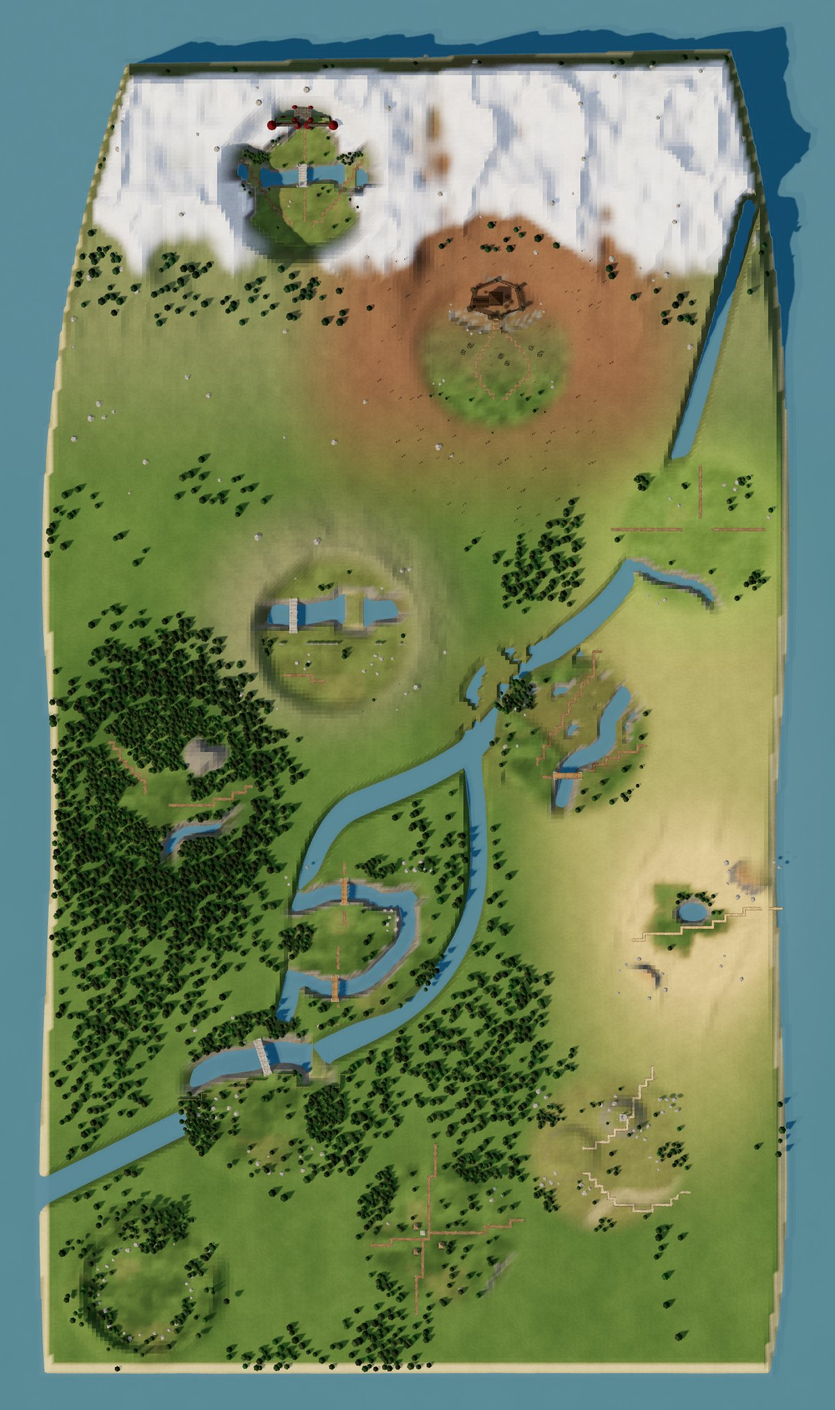
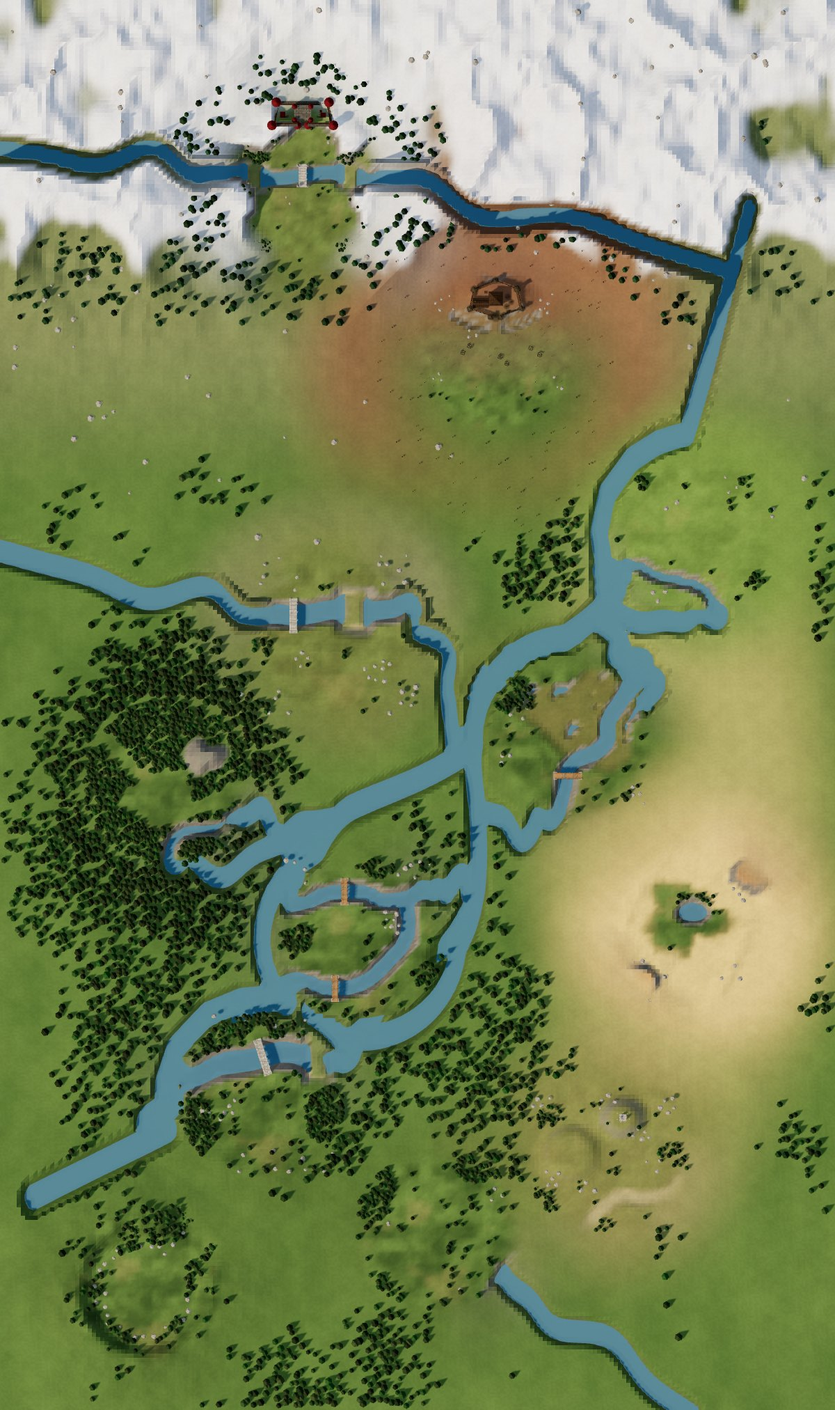
Overview: stages blend into the land (rims carried outward, streams join the big river), land to the edges, no roads or buildings in the stages, raised treasure-map crosses
Claude-Session: https://claude.ai/code/session_01AE8sRRsVdpH9ETfQvtppox

diff --git a/tools/render/overview-scene.js b/tools/render/overview-scene.js
@@ -15,11 +15,11 @@
   const RIV = CAMP_RIVER.map(R => { const pts = []; let p = R[0]; for (const s of R.slice(1)) { bez(p, ...s, 16, pts); p = [s[4], s[5]]; } return pts; });
   const P = CAMPAIGN.map(c => c.at);
   const rivD = (px, py) => Math.min(...RIV.map(r => polyDist(r, px, py)));
-  const coastD = (px, py) => inPoly(COAST, px, py) ? polyDist([...COAST, COAST[0]], px, py) : -1;
+  const coastD = () => 100;   // land right to the picture's edges (Jack: no empty background at the sides); the old coast is unused
   const stopD = (px, py) => Math.min(...P.map(([a, b]) => Math.hypot(a - px, (b - py) * 1.2)));
   const keepP = P[10], holdP = P[11];
   // ---------- every built stage, played once (startGame) and shrunk into a round patch at its stop: its own ground and colours, water,
-  // bridges, roads, trees, rocks and fixed scenery (walls, ruins, the market cross and hamlet, the bosses' forts); never the castle
+  // bridges, trees, rocks, Watchhill's ruin and the bosses' forts; no castle, buildings or roads (Jack)
   const PATCH = 21, STG = [];   // each stage's patch radius in metres: the closest stops are about 44 m apart
   // clone without userData: three copies it through JSON, and the game keeps object references there (a stack overflow)
   const cl = o => { const saved = []; o.traverse(n => { saved.push([n, n.userData]); n.userData = {}; }); const c = o.clone(); for (const [n, u] of saved) n.userData = u; return c; };
@@ -28,12 +28,10 @@
     MAP = c.map; startGame(); paused = true;
     const [cx, cz] = toW(...c.at), k = PATCH / (SIZE / 2);
     const wrap = new THREE.Group(); wrap.position.set(cx - SIZE / 2 * k, 0, cz - SIZE / 2 * k); wrap.scale.setScalar(k);
-    for (const B of buildings) if (B.type !== 'castle') wrap.add(cl(B.group));
     for (const b of bridges) if (b.g) wrap.add(cl(b.g));
     for (const r of rocks) if (r.mesh) wrap.add(cl(r.mesh));
     if (bossMesh) wrap.add(cl(bossMesh));
     if (ruinMesh) wrap.add(cl(ruinMesh));
-    wrap.add(cl(roadBase), cl(roadTop), cl(pathStones));
     STG.push({ cx, cz, k, V, SIZE, H: H.slice(0, V * V), C: tCol.slice(0, V * V * 3), trees: trees.map(t => ({ x: t.x, z: t.z, s: t.s, bare: t.bare })), wrap });
   }
   const stageAt = (x, z) => { for (const st of STG) { const d = Math.hypot(x - st.cx, z - st.cz); if (d < PATCH) return [st, d]; } return null; };
@@ -43,6 +41,41 @@
     const h = lerp(lerp(at(i, j), at(i + 1, j), fx), lerp(at(i, j + 1), at(i + 1, j + 1), fx), fz) * st.k, n = (Math.min(Math.round(sz), st.V - 1) * st.V + Math.min(Math.round(sx), st.V - 1)) * 3;
     return [h, st.C[n], st.C[n + 1], st.C[n + 2]];
   };
+  // each stage's rim: its height and colour all round, just inside the patch's edge; the land outside carries it on, so hills keep going
+  const NA = 90;
+  for (const st of STG) {
+    const raw = []; for (let a = 0; a < NA; a++) { const t = a / NA * Math.PI * 2; raw.push(stSample(st, st.cx + Math.cos(t) * PATCH * .9, st.cz + Math.sin(t) * PATCH * .9)); }
+    st.wetRim = raw.map(r => r[0] < -.15);
+    st.rim = raw.map((_, a) => { const acc = [0, 0, 0, 0]; let n = 0; for (let d = -7; d <= 7; d++) { const r = raw[(a + d + NA) % NA]; if (r[0] < .15) continue; r.forEach((v, q) => acc[q] += v); n++; } return n ? acc.map(v => v / n) : [.3, ...raw[a].slice(1)]; });   // dry ground only, averaged over ±28°
+  }
+  const rimAt = (st, x, z) => { let t = Math.atan2(z - st.cz, x - st.cx) / (Math.PI * 2) * NA; t = (t + NA) % NA; const a = Math.floor(t), b = (a + 1) % NA, f = t - a; return st.rim[a].map((v, n) => lerp(v, st.rim[b][n], f)); };
+  const nearStage = (x, z) => { let best = null, bd = 1e9; for (const st of STG) { const d = Math.hypot(x - st.cx, z - st.cz); if (d < bd) { bd = d; best = st; } } return [best, bd]; };
+  // where a stage's water reaches its rim, a stream runs on from there to the nearest bit of the big river (or the map's edge)
+  // the big river bends round the outside of every stage instead of vanishing into one; the stages' own water joins it by streams
+  for (const r of RIV) for (const p of r) { const [x, z] = toW(...p); for (const st of STG) { const d = Math.hypot(x - st.cx, z - st.cz), R0 = PATCH * 1.12; if (d < R0) { const f = R0 / Math.max(d, .01); const q = toP(st.cx + (x - st.cx) * f, st.cz + (z - st.cz) * f); p[0] = q[0]; p[1] = q[1]; } } }
+  const MAIN = RIV.map(r => r.map(([px, py]) => toW(px, py)));
+  const TRIB = [];
+  for (const st of STG) {
+    const wet = st.wetRim;
+    for (let a = 0; a < NA; a++) {
+      if (!wet[a] || wet[(a + NA - 1) % NA]) continue;
+      let e = a; while (wet[(e + 1) % NA] && e - a < NA) e++;
+      const t = (a + e) / 2 / NA * Math.PI * 2, ux = Math.cos(t), uz = Math.sin(t), ex = st.cx + ux * PATCH * .8, ez = st.cz + uz * PATCH * .8;
+      let tx = ex + ux * 400, tz = ez + uz * 400, td = 1e9;
+      for (const r of MAIN) for (const [x, z] of r) { const d = Math.hypot(x - ex, z - ez); if (d < td && (x - ex) * ux + (z - ez) * uz > -.3 * d && STG.every(o => Math.hypot(x - o.cx, z - o.cz) > PATCH * 1.35)) { td = d; tx = x; tz = z; } }
+      const edge = Math.min(ux > 0 ? (W - ex) / ux : ux < 0 ? -ex / ux : 1e9, uz > 0 ? (D - ez) / uz : uz < 0 ? -ez / uz : 1e9);
+      if (edge < td) { tx = ex + ux * (edge + 2); tz = ez + uz * (edge + 2); }
+      const mx = ex + ux * 10, mz = ez + uz * 10;
+      const pts = []; for (let i = 0; i <= 40; i++) {   // a quadratic curve with a gentle meander across it, none at either end
+        const f = i / 40, m = 1 - f, x = m * m * ex + 2 * m * f * mx + f * f * tx, z = m * m * ez + 2 * m * f * mz + f * f * tz;
+        const dx = 2 * m * (mx - ex) + 2 * f * (tx - mx), dz = 2 * m * (mz - ez) + 2 * f * (tz - mz), L = Math.hypot(dx, dz) || 1, w = Math.sin(f * Math.PI) * (2.5 * Math.sin(f * 9 + st.cx) + 1.5 * Math.sin(f * 17 + st.cz));
+        pts.push(toP(x - dz / L * w, z + dx / L * w)); }
+      TRIB.push(pts);
+    }
+  }
+  const rd = (x, z) => { const [px, py] = toP(x, z); return Math.min(ownWater(x, z) ? 1e9 : rivD(px, py), tribD(px, py) * 1.15) < 13 ? 0 : 2; };
+  const ownWater = (x, z) => STG.some(st => st.wetRim.some(Boolean) && Math.hypot(x - st.cx, z - st.cz) < PATCH * .95);
+  const tribD = (px, py) => TRIB.length ? Math.min(...TRIB.map(r => polyDist(r, px, py))) : 1e9;
   // ---------- ground: heights and colours by land
   const NX = 201, NZ = Math.round(D) + 1, Hh = new Float32Array(NX * NZ), Cc = new Float32Array(NX * NZ * 3);
   const col = new THREE.Color(), tmp = new THREE.Color();
@@ -61,7 +94,7 @@
     if (wM > .4 && fbm(px * .07 + 3, py * .07 + 8) > .47) h = lerp(h, -.6, sstep(.47, .53, fbm(px * .07 + 3, py * .07 + 8)) * sstep(.4, .7, wM));   // marsh pools
     h = lerp(-.4, h, sstep(0, 14, cd));                                      // down to the beach
     // each stop's ground made level for its little town
-    const rd = rivD(px, py); h = lerp(-1.2, h, sstep(5, 13, rd));
+    const [wx, wz] = toW(px, py), rd = Math.min(ownWater(wx, wz) ? 1e9 : rivD(px, py), tribD(px, py) * 1.15); h = lerp(-1.2, h, sstep(5, 13, rd));
     return h;
   };
   for (let j = 0; j < NZ; j++) for (let i = 0; i < NX; i++) {
@@ -76,6 +109,12 @@
     if (h > 12) col.lerp(SNOW, sstep(12, 15.5, h) * .9);
     tmp.copy(col);
     const sp = stageAt(i, j);
+    // round each stage the land takes on its rim's height and colour, fading back to the overview's own over another patch's width
+    { let sw = 0, wmax = 0; const acc = [0, 0, 0, 0];
+      for (const st of STG) { const d = Math.hypot(i - st.cx, j - st.cz); if (d > PATCH * 2.2) continue; const w = 1 - sstep(PATCH * .85, PATCH * 2.2, d); rimAt(st, i, j).forEach((v, q) => acc[q] += v * w); sw += w; wmax = Math.max(wmax, w); }
+      if (sw > 0) { const [rh, rr, rg, rb] = acc.map(v => v / sw), wet = rd(i, j) < 1, wc = wmax * wmax;
+        if (!wet) Hh[k] = lerp(Hh[k], Math.max(rh, .3) * (.85 + .3 * fbm(i * .15, j * .15)), wmax);
+        tmp.r = lerp(tmp.r, rr, wc); tmp.g = lerp(tmp.g, rg, wc); tmp.b = lerp(tmp.b, rb, wc); } }
     if (sp) { const [st, d] = sp, w = 1 - sstep(PATCH * .72, PATCH, d), [sh, r, gg, b] = stSample(st, i, j); Hh[k] = lerp(Hh[k], sh, w); tmp.r = lerp(tmp.r, r, w); tmp.g = lerp(tmp.g, gg, w); tmp.b = lerp(tmp.b, b, w); }
     Cc.set([tmp.r, tmp.g, tmp.b], k * 3);
   }
@@ -97,7 +136,7 @@
   const T = [];
   for (let z = 1; z < D - 1; z += 1.25) for (let x = 1; x < W - 1; x += 1.25) {
     const jx = x + (hash(x * 3.1, z * 1.7) - .5) * 1.1, jz = z + (hash(z * 2.3, x * .9) - .5) * 1.1, [px, py] = toP(jx, jz), h = hAtO(jx, jz);
-    if (h < .4 || coastD(px, py) < 6 || rivD(px, py) < 12 || stageAt(jx, jz)) continue;
+    if (h < .4 || rivD(px, py) < 12 || tribD(px, py) < 10 || stageAt(jx, jz)) continue;
     const wF = landW('woods', px, py, .45, 1.25), wD = landW('desert', px, py, .3, 1.2), wS = landW('dry', px, py, .45, 1.1), wP = landW('plains', px, py, .4, 1.1), wH = landW('high', px, py, .4, 1.15), wM = landW('marsh', px, py, .3, 1.1);
     const north = sstep(330, 230, py), mount = sstep(250, 130, py);
     const meadow = (fbm(px * .011, py * .011) - .5) * 1.6 + .1;

diff --git a/index.html b/index.html
@@ -6723,6 +6723,13 @@ function campaignSVG() {
   const onLand = (x, y) => x > 55 + (y > 420 ? 0 : (420 - y) * .12) && x < 745 && y > 60 && y < 868;
   let road = `M${P[0][0]} ${P[0][1]}`;
   for (let i = 1; i < P.length; i++) { const [x0, y0] = P[i - 1], [x1, y1] = P[i]; road += ` Q${(x0 + x1) / 2 + (i % 2 ? 40 : -40)} ${(y0 + y1) / 2 + (i % 2 ? -25 : 25)} ${x1} ${y1}`; }
+  // a painted treasure-map cross, raised: a soft shadow cast down-right, a dark rim, the red strokes shaded light to dark, a highlight
+  // along their upper edges (two slightly bowed brush strokes, thicker in the middle)
+  const XS = ['M-16 -14 Q-1 -4 16 15', 'M15 -16 Q3 -1 -15 15'];
+  const XMARK = `<g transform="translate(3.5 4.5)" filter="url(#xShade)">${XS.map(d => `<path d="${d}" stroke="#000" stroke-opacity=".55" stroke-width="13" stroke-linecap="round" fill="none"/>`).join('')}</g>` +
+    XS.map(d => `<path d="${d}" stroke="#4a0b07" stroke-width="13" stroke-linecap="round" fill="none"/>`).join('') +
+    XS.map(d => `<path d="${d}" stroke="url(#xRed)" stroke-width="9" stroke-linecap="round" fill="none"/>`).join('') +
+    XS.map(d => `<path d="${d}" transform="translate(-1.4 -1.8)" stroke="#ffb49e" stroke-opacity=".75" stroke-width="2.4" stroke-linecap="round" fill="none"/>`).join('');
   // the ground is one 3D landscape rendered from the game's own terrain, trees, rocks and buildings, seen straight down (maps/overview.jpg,
   // tools/render/overview.js); the road, the rings round each stop's little town and the names are drawn over it
   const marks = CAMPAIGN.map((c, i) => { const [x, y] = c.at, col = c.boss ? '#e2715b' : '#e3b341', R = 46;
@@ -6730,12 +6737,12 @@ function campaignSVG() {
       (c.boss ? `<path d="M-6 -4 L6 7 M6 -4 L-6 7" stroke="#f3d5c8" stroke-width="2.6" stroke-linecap="round"/>` : `<text y="6" text-anchor="middle" font-size="17" font-family="Georgia,serif" fill="#f2e6c4">${i + 1}</text>`) + `</g>`;
     // a red cross on the spot (Jack), over the stage's own ground; an invisible disc keeps the tap target big
     return `<g class="mk" data-i="${i}" transform="translate(${x} ${y * CAMP_CY})"><circle r="${R}" fill="#000" fill-opacity=".001"/><circle class="ring" r="${R}" fill="none" stroke="#fff" stroke-width="0"/>` +
-      `<path d="M-13 -13 L13 13 M13 -13 L-13 13" stroke="#1a1a14" stroke-width="11" stroke-linecap="round"/><path d="M-13 -13 L13 13 M13 -13 L-13 13" stroke="#d8342a" stroke-width="6.5" stroke-linecap="round"/>${badge}` +
+      XMARK + badge +
       `<text y="${R + 28}" text-anchor="middle" font-size="25" font-family="Georgia,serif" fill="#f2e6c4" stroke="#1a1a14" stroke-width="5" paint-order="stroke">${c.name}</text></g>`; }).join('');
   return `<svg viewBox="0 0 800 ${900 * CAMP_CY}" xmlns="http://www.w3.org/2000/svg">
-    <rect width="800" height="${900 * CAMP_CY}" fill="#3e6e86"/>
+    <defs><linearGradient id="xRed" x1="0" y1="0" x2="1" y2="1"><stop offset="0" stop-color="#f05a3f"/><stop offset=".55" stop-color="#c8261b"/><stop offset="1" stop-color="#7e130c"/></linearGradient>
+      <filter id="xShade" x="-50%" y="-50%" width="200%" height="200%"><feGaussianBlur stdDeviation="2.2"/></filter></defs>
     <image href="maps/overview.jpg" x="0" y="0" width="800" height="${900 * CAMP_CY}" preserveAspectRatio="none"/>
-    <g transform="scale(1 ${CAMP_CY})"><path d="${road}" fill="none" stroke="#f0dfb0" stroke-width="4.5" stroke-dasharray="10 9" stroke-linecap="round" opacity=".85"/></g>
     ${marks}
   </svg>`;
 }

diff --git a/CLAUDE.md b/CLAUDE.md
@@ -95,7 +95,7 @@ The whole game is currently one self-contained file: `index.html` (~165 KB, thre
 ## Gameplay summary
 - 28×28 grid of 2 m cells. Start: castle prebuilt in the middle, 3 villagers, gold 40, wood 45, stone 0, food 20.
 - **Day/night**: 5 waves on Meadow and River isle (`WAVES_STD`; `WAVES`, `NIGHTS`, `DAYLEN`, `SPAWN_GAP` are set per map by `mapRules()`; Mountain pass has 2). Day 1 lasts 300 s, days 2–5 last 150 s (`DAYLEN`); the last `DUSK` 40 s fade slowly to night (light and dusk colours in `updateLight`), with a "Dusk · Night N soon" banner and log line as it starts. Nothing is earned at night: no payouts (the `econT` ring waits for dawn) and a load carried in after dark is lost (`deliver`). Night ends when all enemies are dead. Summary screen at the end, with a star rating (`endGame`): 0 if the castle fell, 1 for surviving, 2 with some of the goals, 3 with all of them; goals: no buildings lost, no soldiers lost, castle above half health (listed with ticks, `#sumGoals`). The best per map is kept in `localStorage['mtd-stars']` (`STARS`, `starsHTML`, `starTotal`) and shown on the map cards (`markMapStars`); the total shows on the campaign screen.
-- **Campaign overview** (title screen → Campaign, `#campaign`): a sketch: one hand-drawn SVG map (`campaignSVG`: sea, meadows in the south, woods, hills, snowy mountains and the raiders' reddish north; the river (Jack's line) comes down from the north-east mountains past Horsefields and Meadowmere, splits round Riverbend (two branches, Riverbend between them) and runs out at the west edge above Greenvale; lands where a resource is scarce, so the stop's new building is the answer, all blending into each other (Jack wants it natural, never a sudden patch): each land is a soft ellipse in `CAMP_LAND` (centre, radii, colour) drawn blurred (`campSoft`) and clipped to the coast, and `landW(kind, x, y)` gives how deep a spot is in it; tree density is worked out from those weights everywhere (a 13 px grid with jitter: the deep woods dense and dark, meadow copses from value noise, thinning into dry grass, none on desert or plains, few on highlands and marsh, none in the bare north), and ground detail follows them too (dunes, dry shrubs, highland rocks, marsh pools and reeds). The lands: deep woods round Ironcrag (7, no stone: the mine), rocky highlands round Siegeford (8, little wood: catapults' stone is at hand), marsh along the river at Meadowmere (9, poor fields: the farmhouse), and in the east dry grass round a desert at Dunewell (5, few trees: forester and well) running north into the open plains of Horsefields (10, stables) and south to the dry hills of Watchhill (4). Stonebridge sits on the river. Markers were moved to sit in their lands; each stop's `land` line shows under its name in the info) with a dashed road through twelve numbered markers, the last two red boss markers (`CAMPAIGN`: name, position in the 800 × 900 view, `land` line, the buildings each adds; river in `CAMP_RIVER`, cubic segments, also sampled to keep trees off the water); the overview is drawn half again as tall as its 800 × 900 plan (`CAMP_CY` 1.5: the ground, lands, river and road are stretched in one group; trees, rocks, peaks and markers keep their shapes and are just moved down, `T(y, el)`), so it fills a phone's height, with only "Tap a stage" under it. **The overview's ground is now one 3D landscape** (Jack: rebuild it in 3D top-down from the stages; thumbnails of each stage were tried and dropped): `maps/overview.jpg` (1200 × 2025), rendered by `node tools/render/overview.js [--three …]` from `tools/render/overview-scene.js` (evaluated inside the game through `G`): a 200 × 337.5 m world (the plan × .25 across, × .375 down) straight down with an orthographic camera and the game's sun; heights and colours by the same lands (`CAMP_LAND`, `landW`): dark woods, golden dry grass, sand with dune ridges, fresh plains, grey-green rocky highlands, olive marsh with pools, the raiders' red land round Raider Keep, snowy mountains across the far north; the coast (`LAND`'s curves) to a beach and the sea, the river carved from `CAMP_RIVER`, the game's own trees and rocks between the stops; and **at every stop the stage itself** (Jack: the overview must match the stage maps, e.g. Siegeford's river): each built stage is started once (`startGame`) and shrunk into a round patch of radius `PATCH` 21 m at its stop (scale 21 / (SIZE / 2)): its heights (scaled the same) and vertex colours blended in over the patch's outer quarter, its water (below the sea plane), bridges, roads and path stones, trees, rocks and fixed scenery (pre-built walls, the hamlet and market cross, Watchhill's ruin, the bosses' forts), never the castle (cloned without `userData`: three copies it through JSON and the game's references there overflow the stack). Re-run after changing `CAMPAIGN` positions, `CAMP_LAND` or `CAMP_RIVER`. `campaignSVG` now only draws the picture, the dashed road, a red cross on each stop (Jack; the selected stop gets a dashed white ring) with its number (crossed swords for bosses) on a badge, and the names (the old hand-drawn trees, dunes, reeds and peaks are gone). Tapping a stage opens its **stage preview** (`#stagePrev`, `openStage`): the stage's picture (`STAGE_PIC`: the real stage seen straight down, `maps/vale.jpg` / `maps/bridge.jpg` / `maps/cross.jpg` / `maps/watch.jpg` / `maps/dune.jpg` / `maps/bend.jpg` / `maps/crag.jpg` / `maps/ford.jpg` / `maps/mere.jpg` / `maps/plains.jpg` / `maps/keep.jpg` / `maps/hold.jpg` from `node tools/render/maps.js vale bridge cross watch dune bend crag ford mere plains keep hold` (the 80 m boss maps framed at `VIEW` 40, 2, 40, dist 92), drawn at 1080 px (`PX`) so they stay sharp on a phone (Jack found 400 px blurry and wanted top-down, not angled), framed like the map cards (`VIEW` 28, 0, 28, dist 64: no sky past the map's edges); a stage with only a sketch can use it with `tag: 'Sketch'`; others "Soon"), "Stage N · Name", its sub and land line, the buildings it brings in (icons and names), stars, Back and (playable stages, `map`) Play. Landscape puts the picture beside the details. Restart / Play again on a stage go back to the campaign with its preview open (`showStart`, `openCampaign(stop)`).
+- **Campaign overview** (title screen → Campaign, `#campaign`): a sketch: one hand-drawn SVG map (`campaignSVG`: sea, meadows in the south, woods, hills, snowy mountains and the raiders' reddish north; the river (Jack's line) comes down from the north-east mountains past Horsefields and Meadowmere, splits round Riverbend (two branches, Riverbend between them) and runs out at the west edge above Greenvale; lands where a resource is scarce, so the stop's new building is the answer, all blending into each other (Jack wants it natural, never a sudden patch): each land is a soft ellipse in `CAMP_LAND` (centre, radii, colour) drawn blurred (`campSoft`) and clipped to the coast, and `landW(kind, x, y)` gives how deep a spot is in it; tree density is worked out from those weights everywhere (a 13 px grid with jitter: the deep woods dense and dark, meadow copses from value noise, thinning into dry grass, none on desert or plains, few on highlands and marsh, none in the bare north), and ground detail follows them too (dunes, dry shrubs, highland rocks, marsh pools and reeds). The lands: deep woods round Ironcrag (7, no stone: the mine), rocky highlands round Siegeford (8, little wood: catapults' stone is at hand), marsh along the river at Meadowmere (9, poor fields: the farmhouse), and in the east dry grass round a desert at Dunewell (5, few trees: forester and well) running north into the open plains of Horsefields (10, stables) and south to the dry hills of Watchhill (4). Stonebridge sits on the river. Markers were moved to sit in their lands; each stop's `land` line shows under its name in the info) with a dashed road through twelve numbered markers, the last two red boss markers (`CAMPAIGN`: name, position in the 800 × 900 view, `land` line, the buildings each adds; river in `CAMP_RIVER`, cubic segments, also sampled to keep trees off the water); the overview is drawn half again as tall as its 800 × 900 plan (`CAMP_CY` 1.5: the ground, lands, river and road are stretched in one group; trees, rocks, peaks and markers keep their shapes and are just moved down, `T(y, el)`), so it fills a phone's height, with only "Tap a stage" under it. **The overview's ground is now one 3D landscape** (Jack: rebuild it in 3D top-down from the stages; thumbnails of each stage were tried and dropped): `maps/overview.jpg` (1200 × 2025), rendered by `node tools/render/overview.js [--three …]` from `tools/render/overview-scene.js` (evaluated inside the game through `G`): a 200 × 337.5 m world (the plan × .25 across, × .375 down) straight down with an orthographic camera and the game's sun; heights and colours by the same lands (`CAMP_LAND`, `landW`): dark woods, golden dry grass, sand with dune ridges, fresh plains, grey-green rocky highlands, olive marsh with pools, the raiders' red land round Raider Keep, snowy mountains across the far north; the coast (`LAND`'s curves) to a beach and the sea, the river carved from `CAMP_RIVER`, the game's own trees and rocks between the stops; and **at every stop the stage itself** (Jack: the overview must match the stage maps, e.g. Siegeford's river): each built stage is started once (`startGame`) and shrunk into a round patch of radius `PATCH` 21 m at its stop (scale 21 / (SIZE / 2)): its heights (scaled the same) and vertex colours blended in over the patch's outer quarter, its water (below the sea plane), bridges, trees, rocks, Watchhill's ruin and the bosses' forts (no castle, other buildings or roads: Jack). **Blending** (Jack: stages must sit naturally in the overview): each stage's rim (its height and colour sampled all round just inside the patch, averaged over ±28° and over dry ground only) carries on outward and fades back into the overview's own land over another patch's width, every nearby stage weighted together (no seams); where a stage's water reaches its rim a meandering stream (`TRIB`) runs on to the nearest bit of the big river outside every patch, or to the map's edge; the big river bends round the outside of every patch (its points pushed out to 1.12 × `PATCH`) and is never carved inside a stage that has its own water. The land runs right to the picture's edges (no sea or coast: Jack didn't want empty background at the sides) (cloned without `userData`: three copies it through JSON and the game's references there overflow the stack). Re-run after changing `CAMPAIGN` positions, `CAMP_LAND` or `CAMP_RIVER`. `campaignSVG` now only draws the picture, a raised red cross on each stop (`XMARK`: a painted treasure-map X, two bowed brush strokes with a soft shadow, a dark rim, a light-to-dark red gradient and a highlight; Jack: "3D, a bit pirate"; no road any more; the selected stop gets a dashed white ring) with its number (crossed swords for bosses) on a badge, and the names (the old hand-drawn trees, dunes, reeds and peaks are gone). Tapping a stage opens its **stage preview** (`#stagePrev`, `openStage`): the stage's picture (`STAGE_PIC`: the real stage seen straight down, `maps/vale.jpg` / `maps/bridge.jpg` / `maps/cross.jpg` / `maps/watch.jpg` / `maps/dune.jpg` / `maps/bend.jpg` / `maps/crag.jpg` / `maps/ford.jpg` / `maps/mere.jpg` / `maps/plains.jpg` / `maps/keep.jpg` / `maps/hold.jpg` from `node tools/render/maps.js vale bridge cross watch dune bend crag ford mere plains keep hold` (the 80 m boss maps framed at `VIEW` 40, 2, 40, dist 92), drawn at 1080 px (`PX`) so they stay sharp on a phone (Jack found 400 px blurry and wanted top-down, not angled), framed like the map cards (`VIEW` 28, 0, 28, dist 64: no sky past the map's edges); a stage with only a sketch can use it with `tag: 'Sketch'`; others "Soon"), "Stage N · Name", its sub and land line, the buildings it brings in (icons and names), stars, Back and (playable stages, `map`) Play. Landscape puts the picture beside the details. Restart / Play again on a stage go back to the campaign with its preview open (`showStart`, `openCampaign(stop)`).
 - **Waves** (`WAVES`): each wave lists how many of each kind come by tier, `{ kind: [tier 1, tier 2, tier 3] }` (`WAVES_STD`): spearmen are the basic raider and come first; 1 = 7 spears + 2 archers; 2 adds swordsmen and a ram; 3 crossbows, horse spears and a ballista; 4 horse swords, a catapult, tiers climb; 5 mostly tier 2–3 with a great ballista, a trebuchet and two rams. `startNight` builds the queue (`[kind, spawn point, tier]`): spearmen first, the other foot and horse mixed in at random, siege engines at the tail. The captain is gone.
 - **Raider kinds** (`ENEMY`; tier multipliers `RAIDER_T` hp ×1/1.6/2.3, dmg ×1/1.3/1.65; gallery names `RAIDER_NAME`): spear, sword (round shield; tier 3 a red one), archer (bow), xbow (crossbow, `xbowPose`, short bolts, range 5.5, a shot every 1.2 s (archers 1.8 s; Jack wants crossbows the faster shooters) for 7 damage (archers 6)), lancer (spear on a horse), rider (sword and shield on a horse), and three wheeled siege engines (`engine: true`, built by `makeEngine`, crewed by two figures of its tier standing in the engine's own frame, `animEngine`): ballista (the town's swivel bow `ballistaTurret` on a wheeled carriage, a timber mantlet from tier 2; the deck stops short of the back and the rear axle sits under its edge, so the crew stand in between the rails under the winch; the bow sits on a short stand (its post runs down through the deck) so the crank is within their reach; the mantlet stands on the deck's front edge, leaning out; a straight bolt, range 10), catapult (the town's `makeCatapult(tier)`: catapult / mangonel / trebuchet; a high stone sized by `CATA_SHOT` with `blastFx`, range 13), ram (a log slung level on two ropes (`RAM_Y`, `RAM_ROPE`) from a frame on four wheels; tier 2 a plank roof, tier 3 hides banded in iron and an iron head; range 1.25 from its middle). Crew: while an engine rolls both push from behind (lean in, arms forward); once it's in range the ballista's and catapult's crew walk to their work (`crewGo`): the loader kneels at the winch and turns the crank (`crewAim` puts both hands on the handle), which draws the ballista's slider and string back by the pulley rope or winds the catapult's arm down by its rope, and the reload (`e.load`, over `ENG_LOAD` × rate) only runs while he winds; the gunner holds the trigger line (`crewRope`) and yanks it to loose (`e.fireT` .35 s); they shoot only with both at their posts and fully wound (`e.crewReady`). The ram stays put at the wall: its pair take the log's back end and swing it on its ropes over `RAM_T` 2 s (`ramSwing`: haul it back .42 rad, drive it in faster and faster to .2, the blow (`RAM_HIT` .55) bounces it back a little (−.08), push it up again; Jack found a bigger knock-back threw the crew about), stepping with it a little behind (eased at 7/s), both hands on the end (`crewAim`); while it rolls they push the frame from behind. Engines from tier 2 fly a red pennant, never fight soldiers, turn slowly to aim (only shoot within .25 rad), keep others off by `ENEMY[k].r`, and when broken throw timbers and dust (`engineWreck`), slump and sink. Targets (`pickTarget`): spearmen the nearest building; swordsmen and horse spears the nearest tower or siege engine (`DEFENCE`: anything with archers or crew but the castle; else nearest building); horse swords the castle; archers, crossbows and ballistas the nearest non-wall building, shooting over walls (`lob` adds 3.5 m reach when a wall blocks them); catapults defences, then any non-wall building; rams walls and gates (`WALLY`), else the castle. Soldiers reach `ENEMY[k].r` further to hit an engine.
 - **Raider looks by tier** (`raiderArmour(p, tier)`, the same for every kind, only the weapon differs): tier 1 a plain red shirt (`raiderRed`) with a rope belt, bare-headed; tier 2 a red quilted gambeson (`raiderQuiltM`) with a short skirt, leather belt and the iron helm with nose and cheek guards (`makeHelm('raider')`); tier 3 mail under a red surcoat, a closed iron great helm (`makeHelm('greathelm')`: flat top, eye slit, breaths, a cross on the face) and dark iron shoulder plates. Horses wear a red blanket; tier 2+ a red cloth down the flanks, tier 3 an iron plate down the face. Gallery rows Raiders 1–3 and Raider siege.
